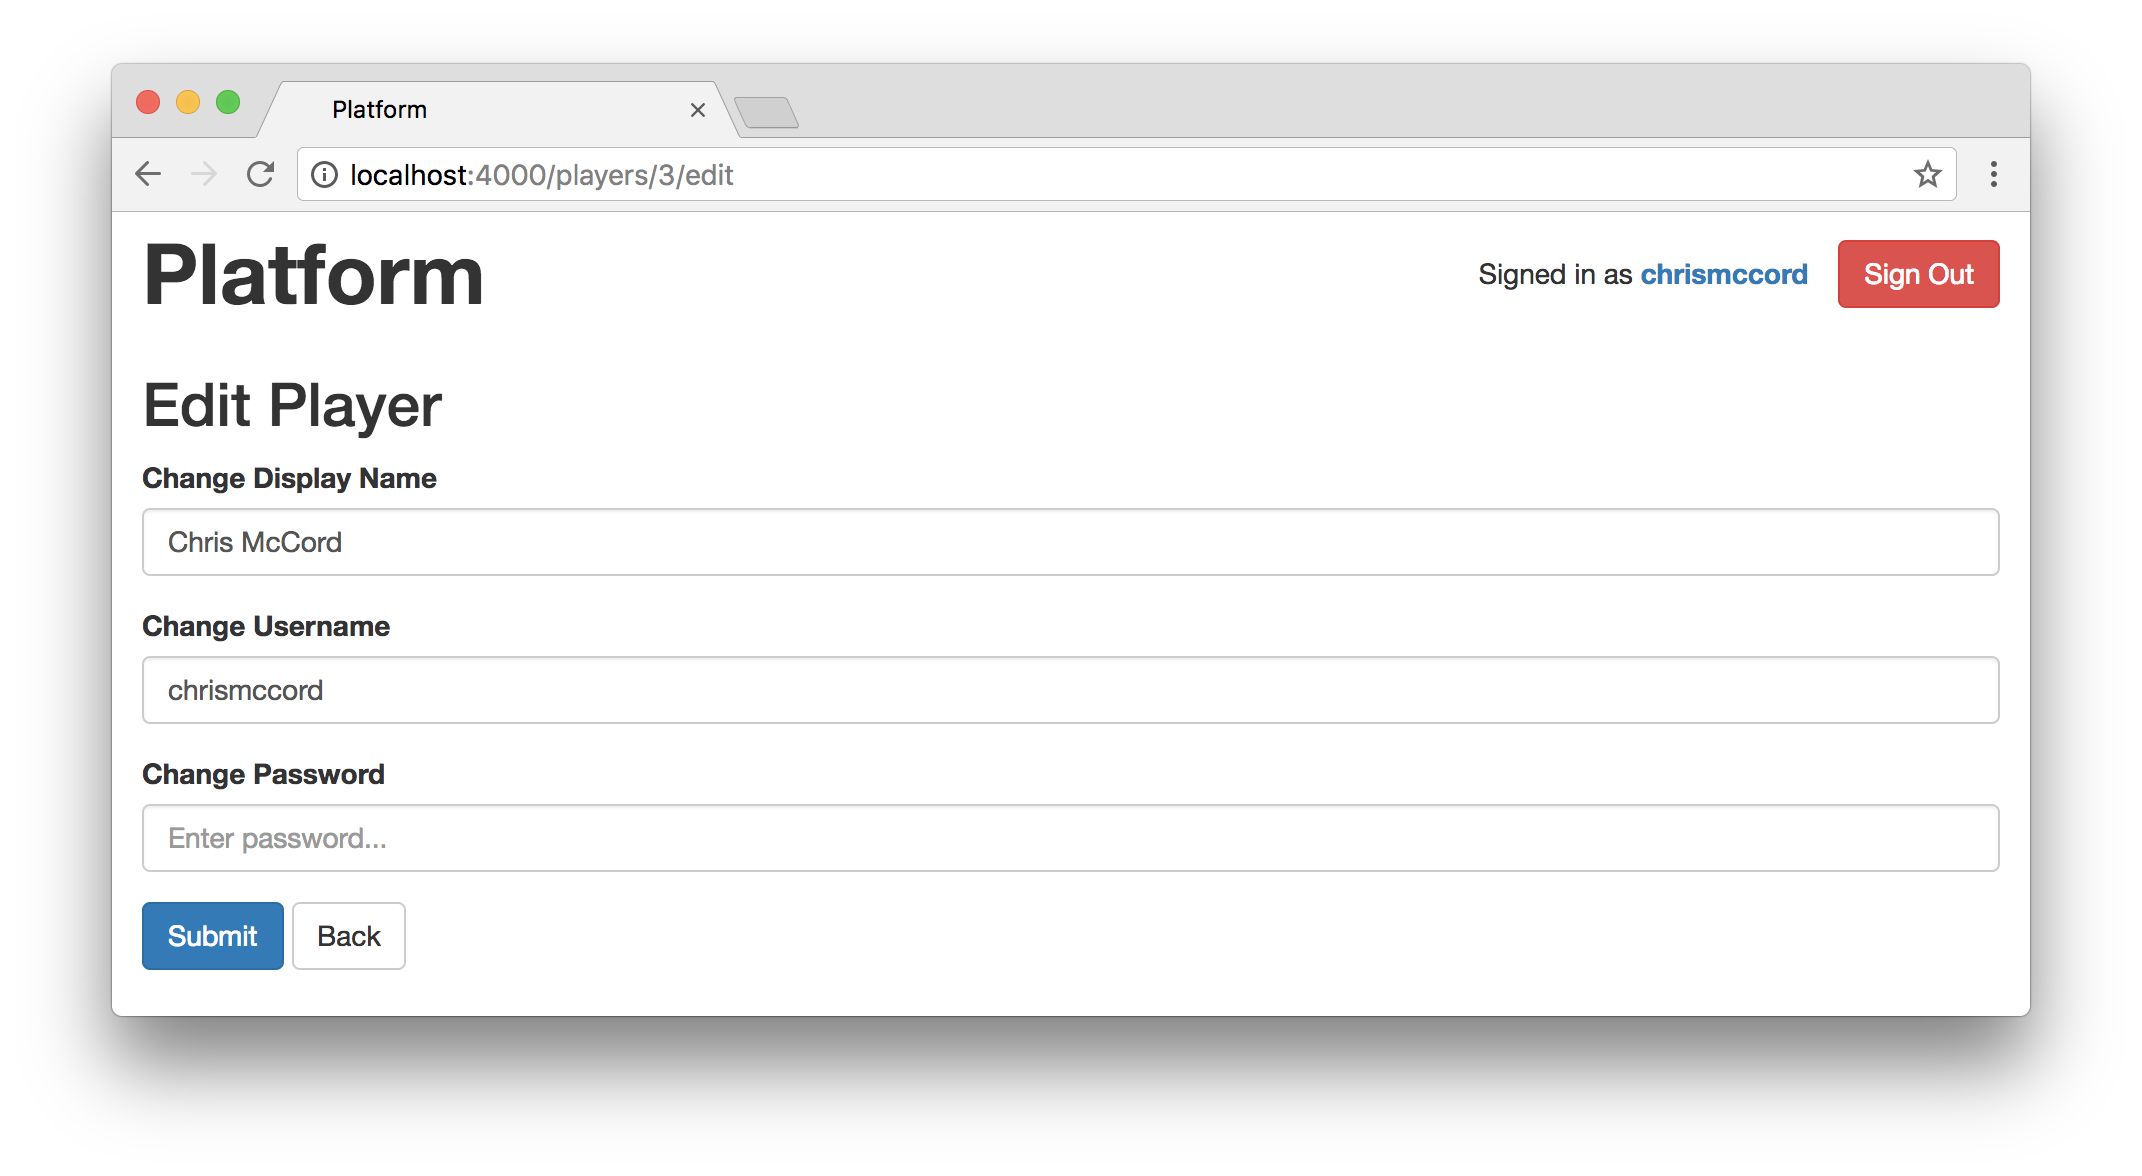
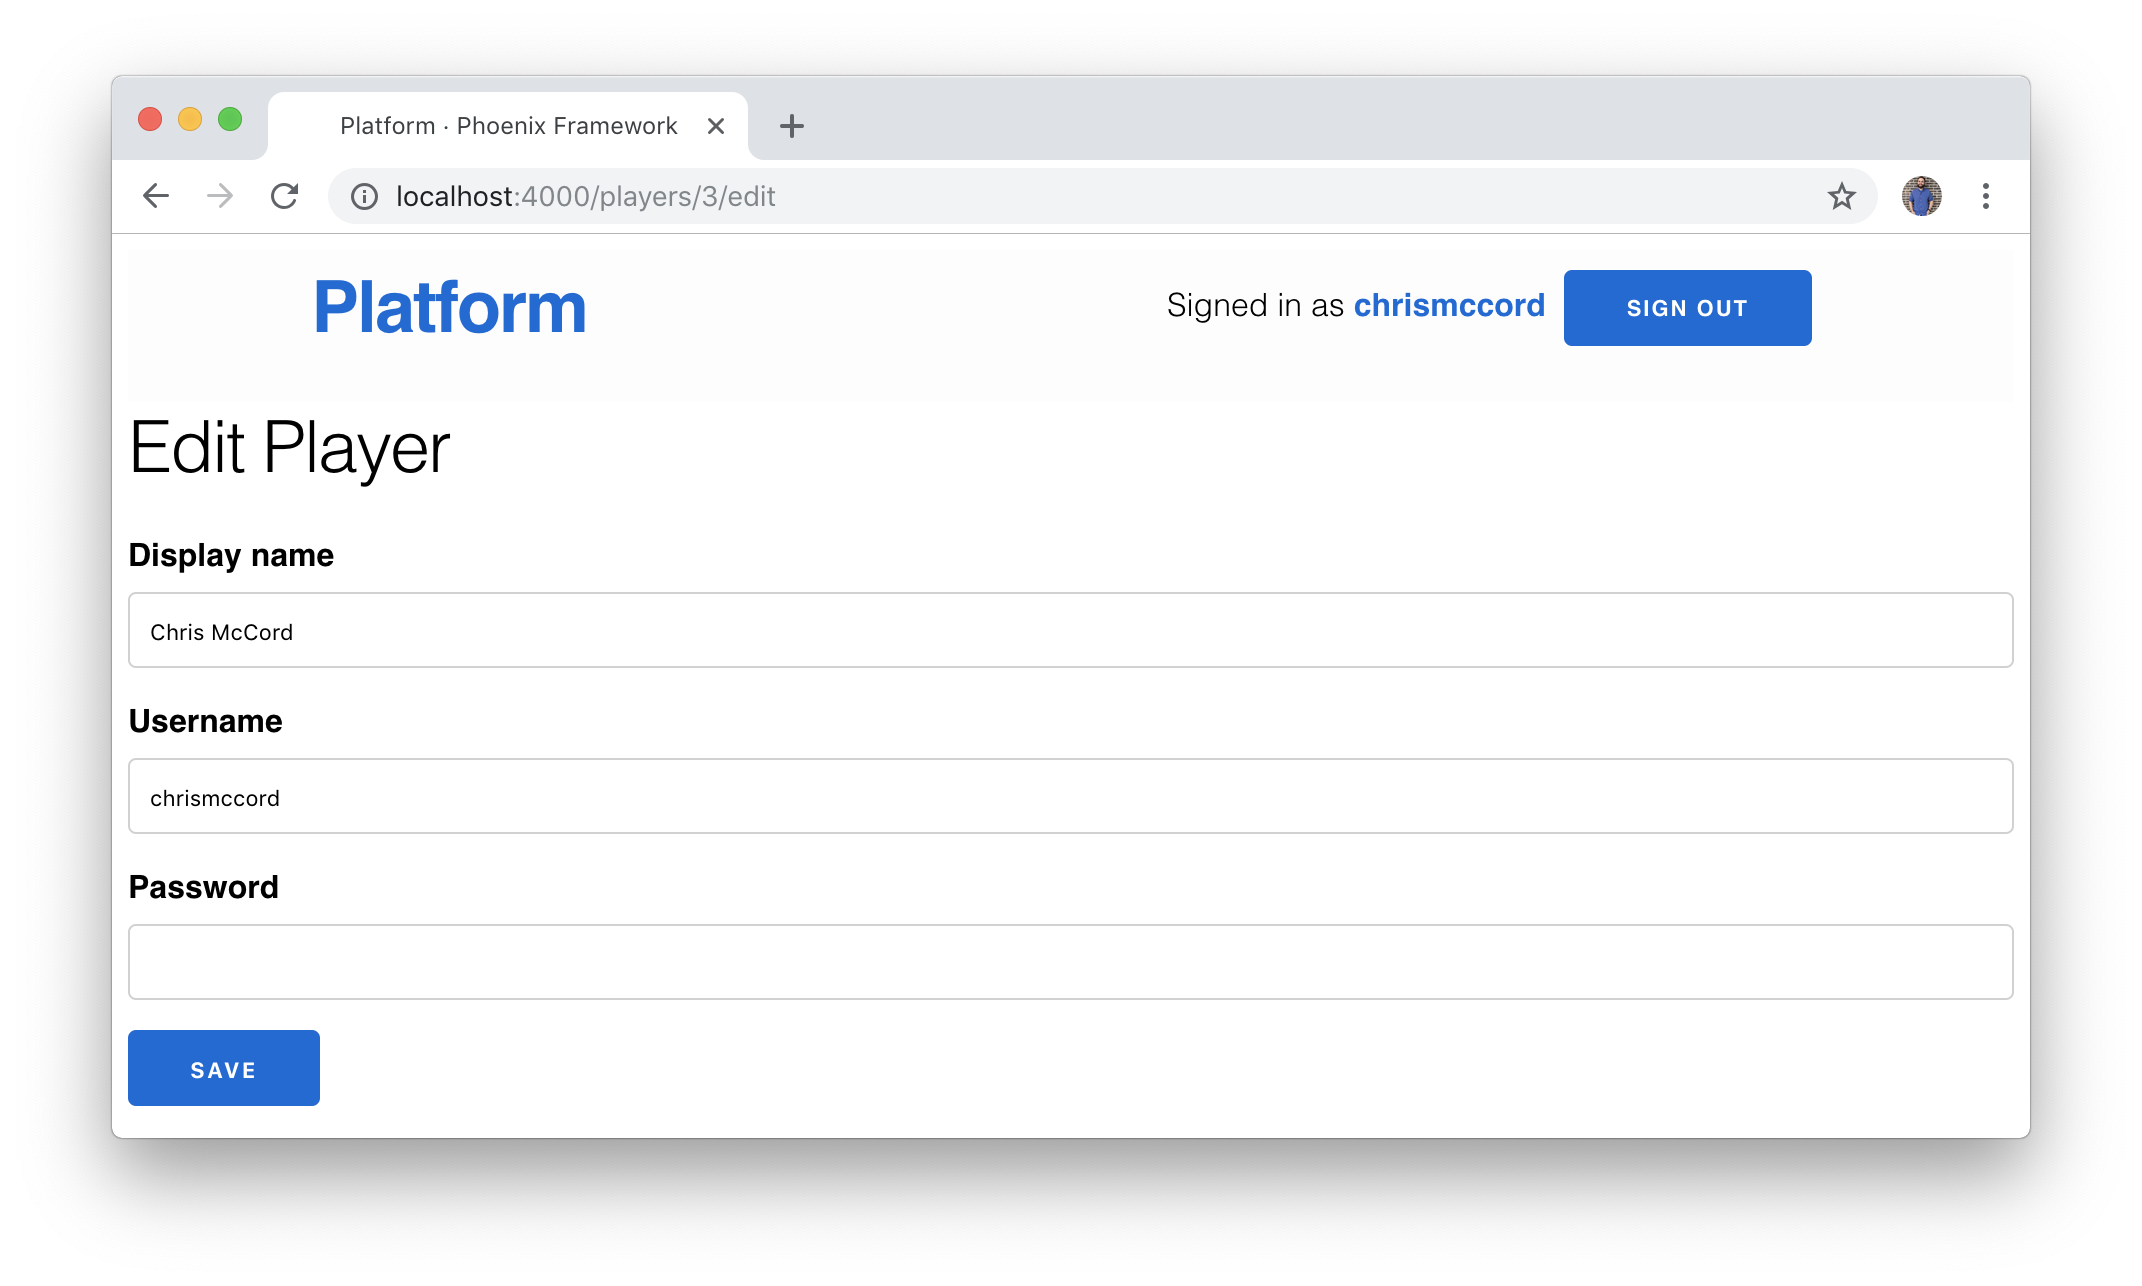
Continuing rewrites for the Design chapter
This has been surprisingly the most difficult chapter to revise. Not
sure if I'm just out of practice with writing styles after using
Tachyons and TailwindCSS recently. Makes me wonder if I should switch to
elm-ui at some point.

diff --git a/manuscript/design_and_usability.md b/manuscript/design_and_usability.md
@@ -121,8 +121,8 @@ can stretch the full width of the page.
 </body>
 ```
 
-This allows our header to stay centered on the page, but enables us to control
-where we want to put all of our player and game data below.
+This will allow our header content to stay centered in a container while our
+player and game content stretches the full width of the page.
 
 ## Writing New Styles
 
@@ -154,15 +154,20 @@ Next, open up the `assets/css/app.css` file that will contain all of our custom
 CSS declarations. Below the `@import` line, add the following:
 
 ```css
+header {
+  border-bottom: none;
+  margin-bottom: 0;
+}
+
 .logo {
   font-weight: bold;
 }
 ```
 
-This is a minor change, but it's a good demonstration of how we can write a mix
-of HTML, CSS, and Elixir to add features to our application. And we now have a
-link at the top of every page in our application that will allow users to
-navigate back to the home page.
+These are minor style changes, but it's a good demonstration of how we can
+write a mix of HTML, CSS, and Elixir to add features to our application. And we
+now have a link at the top of every page in our application that will allow
+users to navigate back to the home page.
 
 ![Phoenix Logo Replaced with Link](images/design_and_usability/phoenix_logo_replaced.png)
 
@@ -323,55 +328,35 @@ for now:
 
 You may have noticed that our authentication information at the top right of
 the window doesn't look great. Let's open our `app.html.eex` file and we'll
-make a few more changes. We'll change the classes we're using for our buttons,
-and we'll display our "Signed in" text with a new class too:
+make a few more changes.
 
-```embedded_elixir
-<header class="header">
-  <nav role="navigation">
-    <ul class="nav nav-pills pull-right">
-    <%= if @current_user do %>
-        <p class="navbar-text">Signed in as <strong><%= @current_user.username %></strong></p>
-        <%= link "Sign Out", to: player_session_path(@conn, :delete, @current_user), method: "delete", class: "btn navbar-btn btn-danger" %>
-    <% else %>
-        <%= link "Sign Up", to: player_path(@conn, :new), class: "btn navbar-btn btn-success" %>
-        <%= link "Sign In", to: player_session_path(@conn, :new), class: "btn navbar-btn btn-primary" %>
-    <% end %>
-    </ul>
-  </nav>
-  <%= link "Platform", to: page_path(@conn, :index), class: "logo" %>
-</header>
-```
-
-We can add a quick CSS rule so our nav elements at the top right of the window
-look okay and don't break our layout on small screens:
-
-```css
-.nav {
-  margin-top: 6px;
-  max-height: 50px;
-  overflow: hidden;
-}
-```
-
-Next, let's allow the currently signed in player to edit their account. Update
-the `nav` element with the following:
+Let's allow the currently signed in player to edit their account. Update the
+`nav` element with the following:
 
 ```embedded_elixir
 <nav role="navigation">
-  <ul class="nav nav-pills pull-right">
+  <ul>
     <%= if @current_user do %>
-      <p class="navbar-text">
-        Signed in as
-        <strong><%= link @current_user.username, to: player_path(@conn, :edit, @current_user) %></strong>
+      <p class="nav-text">
+        Signed in as&nbsp;
+        <strong><%= link @current_user.username, to: Routes.player_path(@conn, :edit, @current_user) %></strong>
       </p>
-      <span><%= link "Sign Out", to: player_session_path(@conn, :delete, @current_user), method: "delete", class: "btn navbar-btn btn-danger" %></span>
+      <%= link "Sign Out", to: Routes.player_session_path(@conn, :delete, @current_user), method: "delete", class: "button" %>
     <% else %>
-      <%= link "Sign Up", to: player_path(@conn, :new), class: "btn navbar-btn btn-success" %>
-      <%= link "Sign In", to: player_session_path(@conn, :new), class: "btn navbar-btn btn-primary" %>
+      <%= ...  %>
     <% end %>
   </ul>
 </nav>
+```
+
+In the `assets/css/app.css` file, we'll add some CSS to the bottom of the file
+and make our signed in player info look a little nicer:
+
+```css
+.nav-text {
+  display: inline-flex;
+  margin-right: 5px;
+}
 ```
 
 This adds a link for the current user to access their **Edit Player** page and
